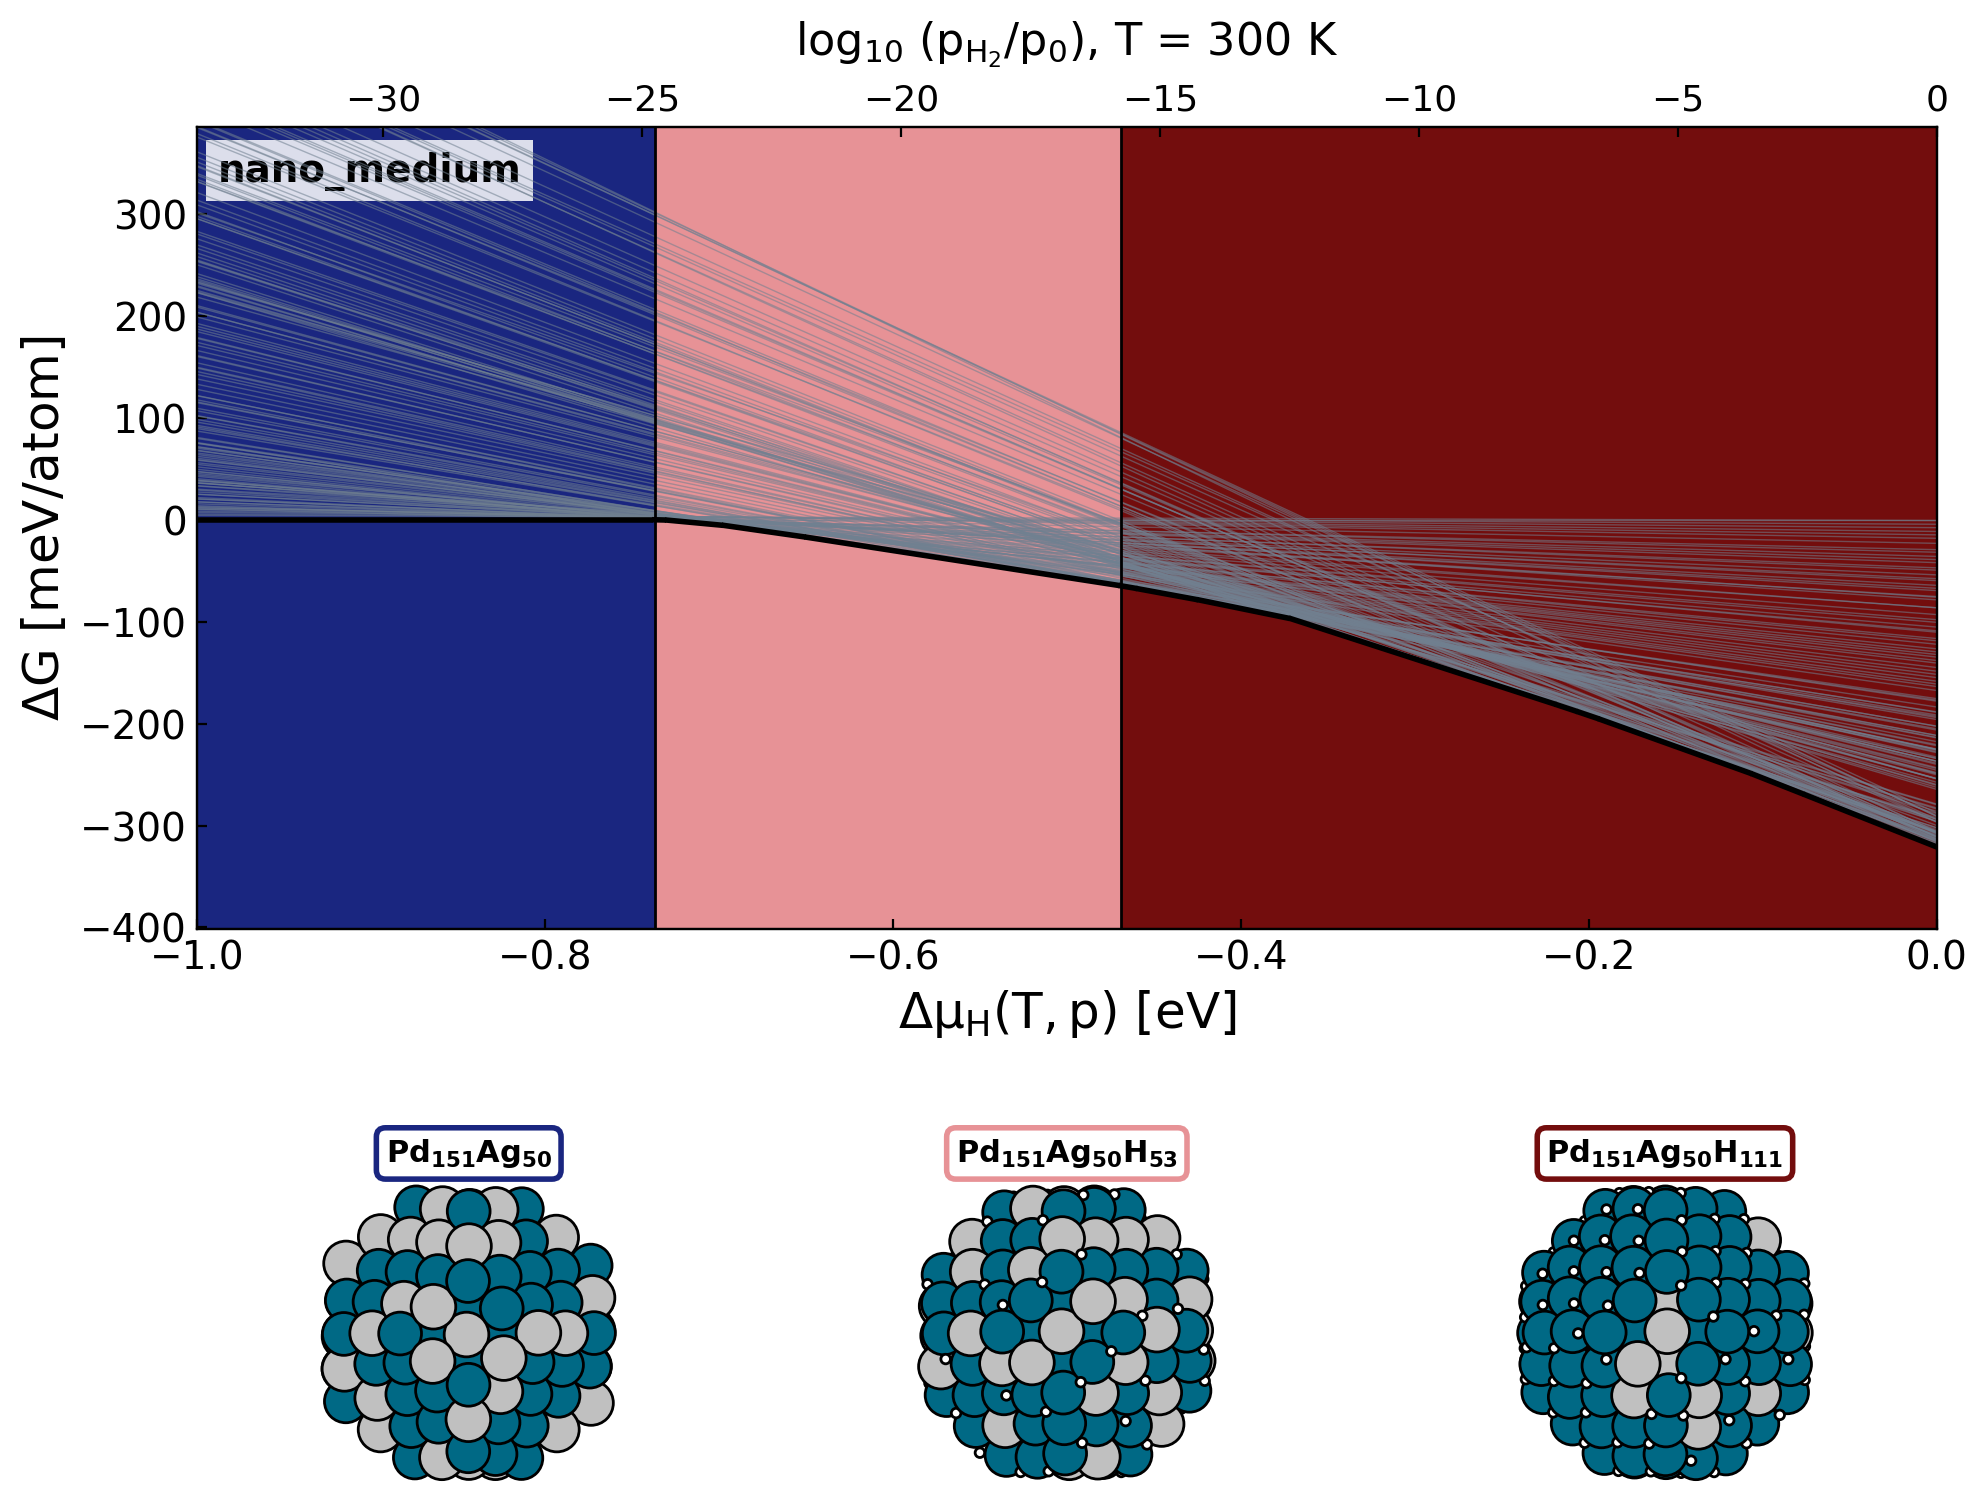
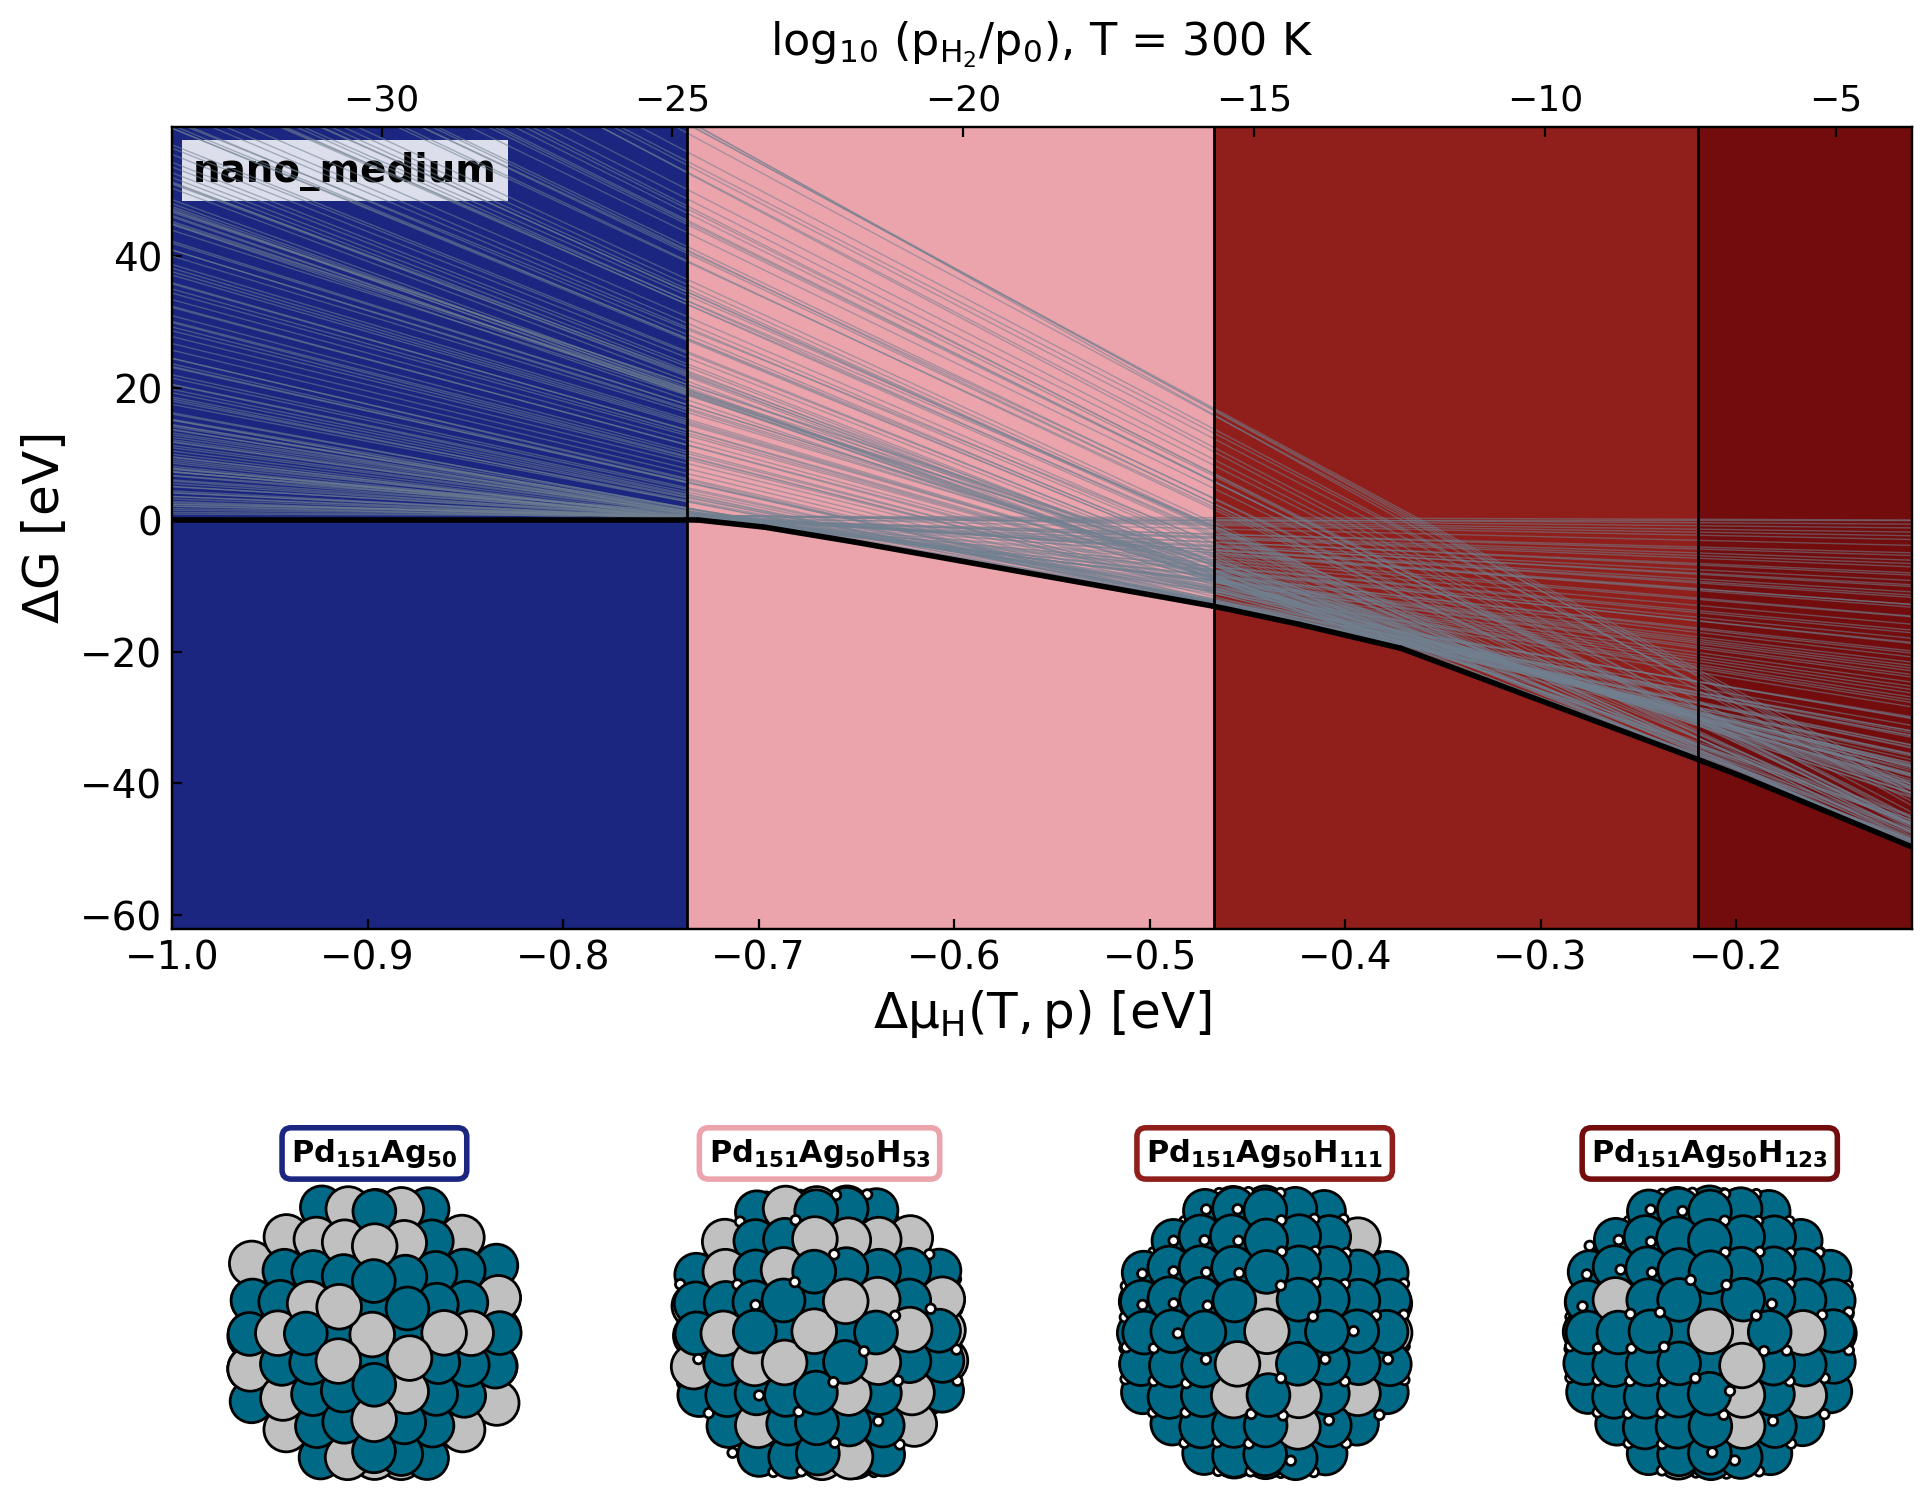
Revise JOSS paper: eV phase diagram, figure ordering, grammar
- Render the Pd-Ag hydrogenation phase diagram in eV (4 phases) via a new
  gamma_in_ev option in plot_phase_diagram (unnormalized formation energy)
- Move the phase-diagram figure next to its reference in Research impact so
  the validation figure (Fig 1) is cited before the phase diagram (Fig 2)
- Fix caption units/endpoint, resolve reviewer comments, tighten grammar
- Rebuild paper.pdf

diff --git a/mcpy/utils/phase_diagram.py b/mcpy/utils/phase_diagram.py
@@ -258,6 +258,7 @@ def plot_phase_diagram(
     outfile=None,
     show_plot=False,
     k_b=8.617e-5,
+    gamma_in_ev=False,
 ):
     """Build a grand-canonical adsorbate phase diagram for one configuration.
 
@@ -298,6 +299,9 @@ def plot_phase_diagram(
         Show interactively instead of closing the figure.
     k_b : float
         Boltzmann constant [eV/K].
+    gamma_in_ev : bool
+        Report the unnormalized formation energy in eV instead of the default
+        per-atom (nano) or per-area (surface) value in meV.
 
     Returns
     -------
@@ -324,14 +328,16 @@ def plot_phase_diagram(
     ref_atoms, ref_E = clean[0][0], clean[0][1]
 
     n_metal = sum(1 for a in ref_atoms if a.symbol in metal_symbols)
+    gamma_scale = 1.0 if gamma_in_ev else 1000.0
     if kind == "surface":
         c = ref_atoms.get_cell()
-        norm_factor = float(np.linalg.norm(np.cross(c[0], c[1])))
-        unit = r"meV/Å²"
+        area = float(np.linalg.norm(np.cross(c[0], c[1])))
+        norm_factor = 1.0 if gamma_in_ev else area
+        unit = r"eV" if gamma_in_ev else r"meV/Å²"
         symbol = r"\gamma"
     else:
-        norm_factor = n_metal
-        unit = r"meV/atom"
+        norm_factor = 1.0 if gamma_in_ev else n_metal
+        unit = r"eV" if gamma_in_ev else r"meV/atom"
         symbol = r"\Delta G"
 
     best = {}
@@ -342,7 +348,10 @@ def plot_phase_diagram(
 
     dmu_grid = np.linspace(dmu_range[0], dmu_range[1], n_bins)
     free = np.array(
-        [((best[n][1] - n * (mu_ref + dmu_grid)) - ref_E) / norm_factor * 1000.0 for n in stoich]
+        [
+            ((best[n][1] - n * (mu_ref + dmu_grid)) - ref_E) / norm_factor * gamma_scale
+            for n in stoich
+        ]
     )
     s_idx = np.argmin(free, axis=0)
     min_g = free[s_idx, np.arange(n_bins)]
@@ -416,8 +425,9 @@ def plot_phase_diagram(
     ax.plot(dmu_grid[seg:], min_g[seg:], color="black", lw=2.0, zorder=12)
 
     span = min_g.max() - min_g.min()
+    y_floor = 50.0 * gamma_scale / 1000.0
     ax.set_xlim(dmu_grid[0], dmu_grid[-1])
-    ax.set_ylim(min_g.min() - 0.25 * max(span, 50.0), min_g.max() + 1.2 * max(span, 50.0))
+    ax.set_ylim(min_g.min() - 0.25 * max(span, y_floor), min_g.max() + 1.2 * max(span, y_floor))
     ax.set_xlabel(r"$\Delta\mu_{%s}(T,p)$ [eV]" % adsorbate, fontsize=18)
     ax.set_ylabel(rf"${symbol}$ [{unit}]", fontsize=18)
     ax.tick_params(direction="in", labelsize=14)

diff --git a/paper/paper.md b/paper/paper.md
@@ -1,5 +1,5 @@
 ---
-title: 'mcpy: Grand Canonical Monte Carlo for atomistic systems with machine-learning potentials'
+title: 'mcpy: Canonical & Grand Canonical Monte Carlo for atomistic systems with machine-learning potentials'
 tags:
   - Python
   - computational chemistry
@@ -30,26 +30,27 @@ bibliography: paper.bib
 
 # Summary
 
-`mcpy` is a Python package for grand canonical Monte Carlo (GCMC) simulation of
+`mcpy` is a Python package for Monte Carlo (MC) simulations of
 atomistic systems of any kind (surfaces, nanoparticles, fluids, and bulk) at
 controlled temperature and chemical potential. It is built on the Atomic Simulation
 Environment (ASE) [@ase2017], so any ASE-compatible calculator can drive the
 sampling: density-functional theory codes, classical force fields, or
 machine-learning interatomic potentials (MLIPs) such as MACE [@mace2022].
-`mcpy` implements both GCMC and replica-exchange GCMC [@swendsen1986] in a
-single, modular run loop, and runs with or without local relaxation of trial
+`mcpy` implements canonical, grand canonical and replica-exchange MC [@swendsen1986] in 
+modular run loops and runs with or without local relaxation of trial
 moves. Following the hybrid scheme of @senftle2014, insertions and deletions
 can be relaxed locally before the acceptance test, which makes sampling
 efficient in densely packed metallic systems where rigid insertions would
 almost always be rejected; relaxation can equally be switched off for standard
-GCMC of fluids and other systems. The same loop runs on CPUs via MPI or on
+MC of fluids and other systems. The same loop runs on CPUs via MPI or on
 GPUs through the NVIDIA Alchemi backend, which relaxes a batch of replicas in a
 single evaluation. The package provides modular trial
 moves (insertion, deletion, displacement, permutation, shake, and Brownian;
 permutation enables chemical-ordering optimization in multi-component systems),
 configurable cell geometries (periodic box, rectangular sub-slab, spherical
-region around a nanoparticle, and user-defined cells), and post-processing
-utilities that turn raw ensembles into surface and nanoparticle phase diagrams.
+region around a nanoparticle, and user-defined cells), global optimization and
+statistical sampling with post-processing utilities that turn raw ensembles into
+surface and nanoparticle phase diagrams.
 
 # Statement of need
 
@@ -59,30 +60,16 @@ canonical ensemble) at near–first-principles accuracy. MLIPs now deliver
 close-to-DFT accuracy at a small fraction of the cost, making large-scale GCMC
 of realistic structures increasingly practical. Yet no open-source package
 combines relaxation-coupled GCMC, replica exchange, an ASE-native MLIP backend,
-and the cell geometries needed for finite nanoparticles in a single workflow.
+and the cell geometries needed for finite nanoparticles in a single, modular workflow.
 
-`mcpy` is aimed at computational chemists and materials scientists studying
+`mcpy`'s grand-canonical simulations are aimed at computational chemists and materials scientists studying
 heterogeneous catalysis, oxidation, and gas–surface equilibria, where the
 stable composition, not just a fixed structure, is the quantity of interest.
 Although it was developed for these applications, the grand-canonical sampling
-is system-agnostic: it runs on any system ASE can represent and any
-ASE-compatible calculator, from molecular fluids to bulk solids, so the same
-workflow extends well beyond the metallic surfaces and nanoparticles that
+is agnostic to the level of theory or the targeted system: it runs on any system ASE can represent and any
+ASE-compatible calculator, from molecular fluids to bulk solids. The same
+workflow therefore extends well beyond the metallic surfaces and nanoparticles that
 motivated it.
-
-![Hydrogenation phase diagram of a 201-atom palladium–silver nanoparticle
-(Pd$_{151}$Ag$_{50}$) obtained with replica-exchange GCMC in `mcpy`, driven by
-the small AGNESI MACE potential [@mace_foundation]. The free energy of formation per atom $\Delta G$ (in meV/atom) is
-shown as a function of the hydrogen chemical potential $\Delta\mu_\mathrm{H}$
-(equivalently $\log_{10}(p_\mathrm{H}/p_0)$ at $T = 300$ K); the lower band shows
-the most stable Pd$_{151}$Ag$_{50}$H$_z$ structure sampled in each
-chemical-potential window, from the bare particle at low $\mu_\mathrm{H}$ to a
-hydrogen-loaded Pd$_{151}$Ag$_{50}$H$_{111}$ at high pressure. The chemical
-ordering of the bare Pd$_{151}$Ag$_{50}$ particle was first optimized with a
-single basin-hopping, replica-exchange run over six temperatures; hydrogenated
-structures were then sampled by replica-exchange GCMC at hydrogen chemical
-potentials from $\Delta\mu_\mathrm{H} = -1$ to $-0.35$ eV with six temperatures
-per chemical-potential window.\label{fig:phase}](phase_diagram.png)
 
 # State of the field
 
@@ -187,7 +174,7 @@ and surfaces under reactive atmospheres at near-DFT accuracy. The
 replica-exchange GCMC workflow was built during doctoral research at the
 Universitat de Barcelona [@farris2025thesis] and underpins a forthcoming manuscript on the oxidation
 thermodynamics of silver nanoparticles, with further application to additional
-catalytic metal/oxide systems within the IQTCUB group. \autoref{fig:phase} shows
+catalytic metal/oxide systems. \autoref{fig:phase} shows
 a representative result from this workflow: the hydrogenation phase diagram of a
 201-atom Pd–Ag nanoparticle, in which `mcpy` recovers the progressive hydrogen
 loading of the particle as the chemical potential increases. By coupling
@@ -199,10 +186,26 @@ open-source, documented with worked examples covering GCMC, replica exchange,
 and phase-diagram construction, and continuously tested across Python 3.11–3.13,
 so that the published workflows can be reproduced and extended by other groups.
 
+![Hydrogenation phase diagram of a 201-atom palladium–silver nanoparticle
+(Pd$_{151}$Ag$_{50}$) obtained with replica-exchange GCMC in `mcpy`, driven by
+the small AGNESI MACE potential [@mace_foundation]. The free energy of formation $\Delta G$ (in eV) is
+shown as a function of the hydrogen chemical potential $\Delta\mu_\mathrm{H}$
+(equivalently $\log_{10}(p_\mathrm{H}/p_0)$ at $T = 300$ K); the lower band shows
+the most stable Pd$_{151}$Ag$_{50}$H$_z$ structure sampled in each
+chemical-potential window, from the bare particle at low $\mu_\mathrm{H}$ to a
+hydrogen-loaded Pd$_{151}$Ag$_{50}$H$_{123}$ at high pressure. The chemical
+ordering of the bare Pd$_{151}$Ag$_{50}$ particle was first optimized with a
+single basin-hopping, replica-exchange run over six temperatures; hydrogenated
+structures were then sampled by replica-exchange GCMC at hydrogen chemical
+potentials from $\Delta\mu_\mathrm{H} = -1$ to $-0.35$ eV with six temperatures
+per chemical-potential window.\label{fig:phase}](phase_diagram.png)
+
 # Acknowledgements
 
-The authors received no specific funding for this work.
-
+This work was supported by the Spanish/FEDER Ministerio de Ciencia, Innovacion y Universidades [Grant Nos.
+PID2021-128217NB-I00, MDM-2017-0767, CEX2021-001202-M, PID2022-140120OA-I00, and RYC2021-032281-I
+(for A.B.)] as well as by the Generalitat de Catalunya [Grant No. 2021SGR00286]. R. F. thanks the Spanish MICIUN
+for an FPI PhD grant (MDM-2017-0767-20-2). R. F. further acknowledges his current research group for supporting the continuation and development of this work.
 # AI usage disclosure
 
 Claude (Opus) assisted with code refactoring, test scaffolding, packaging